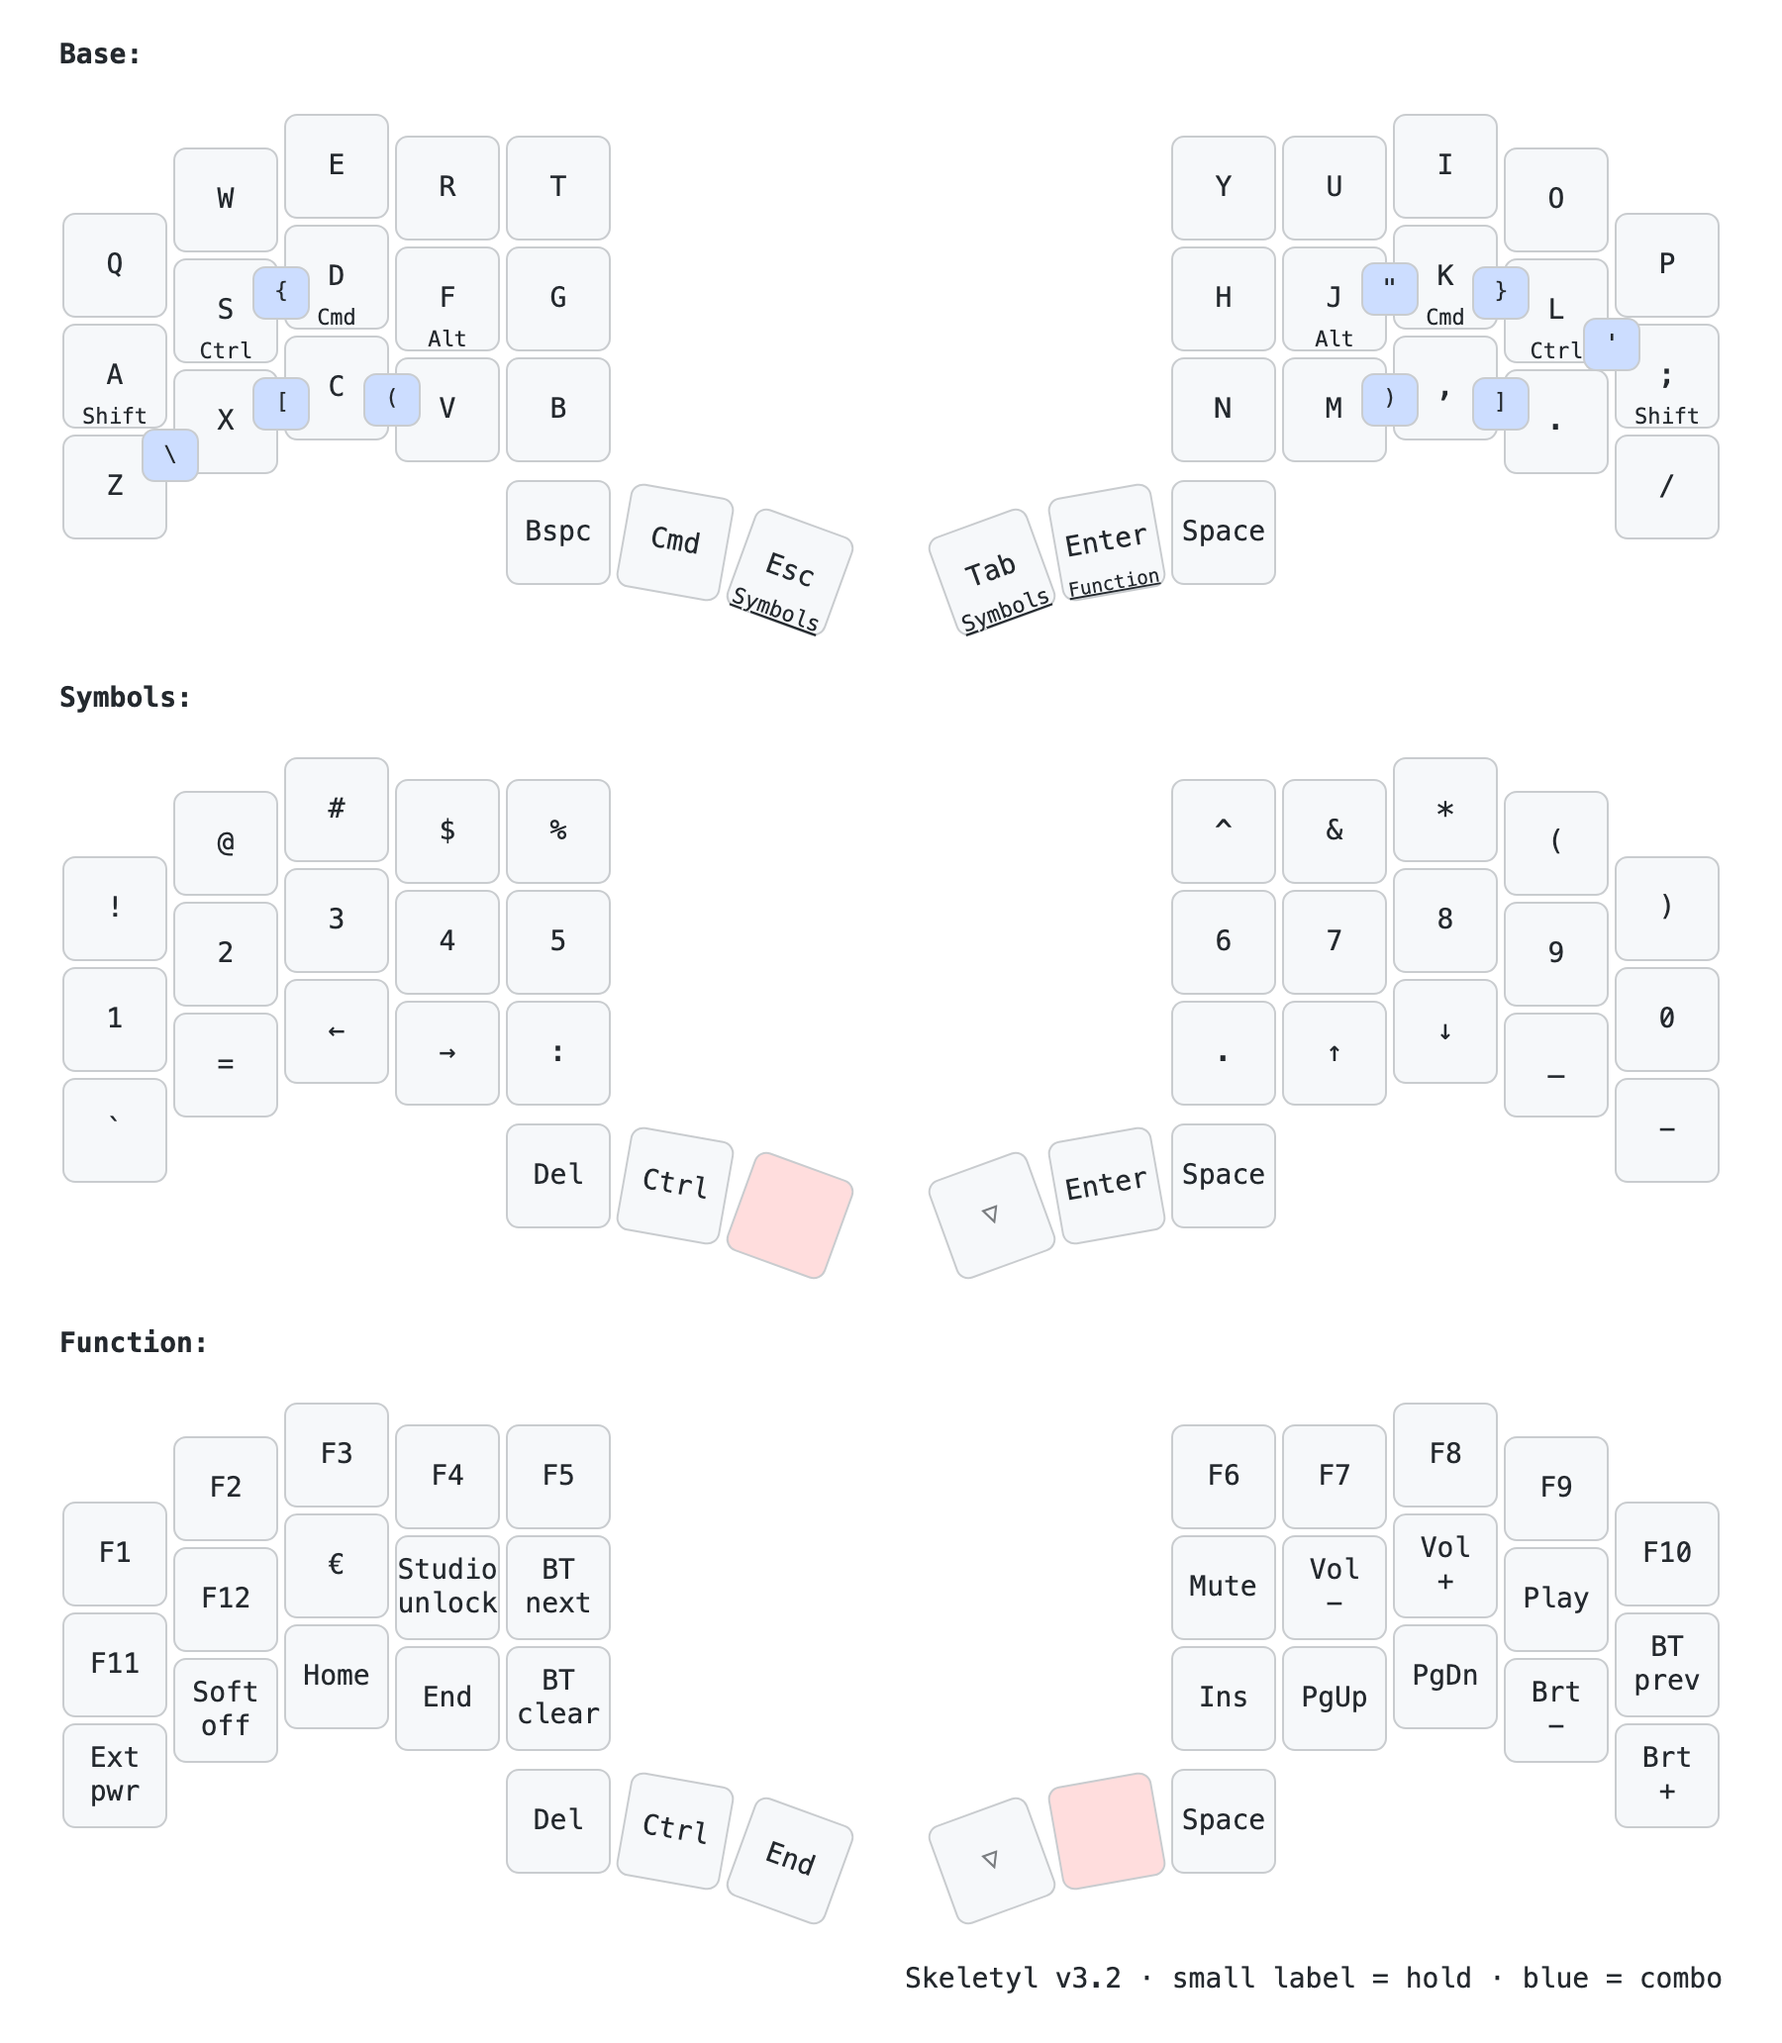
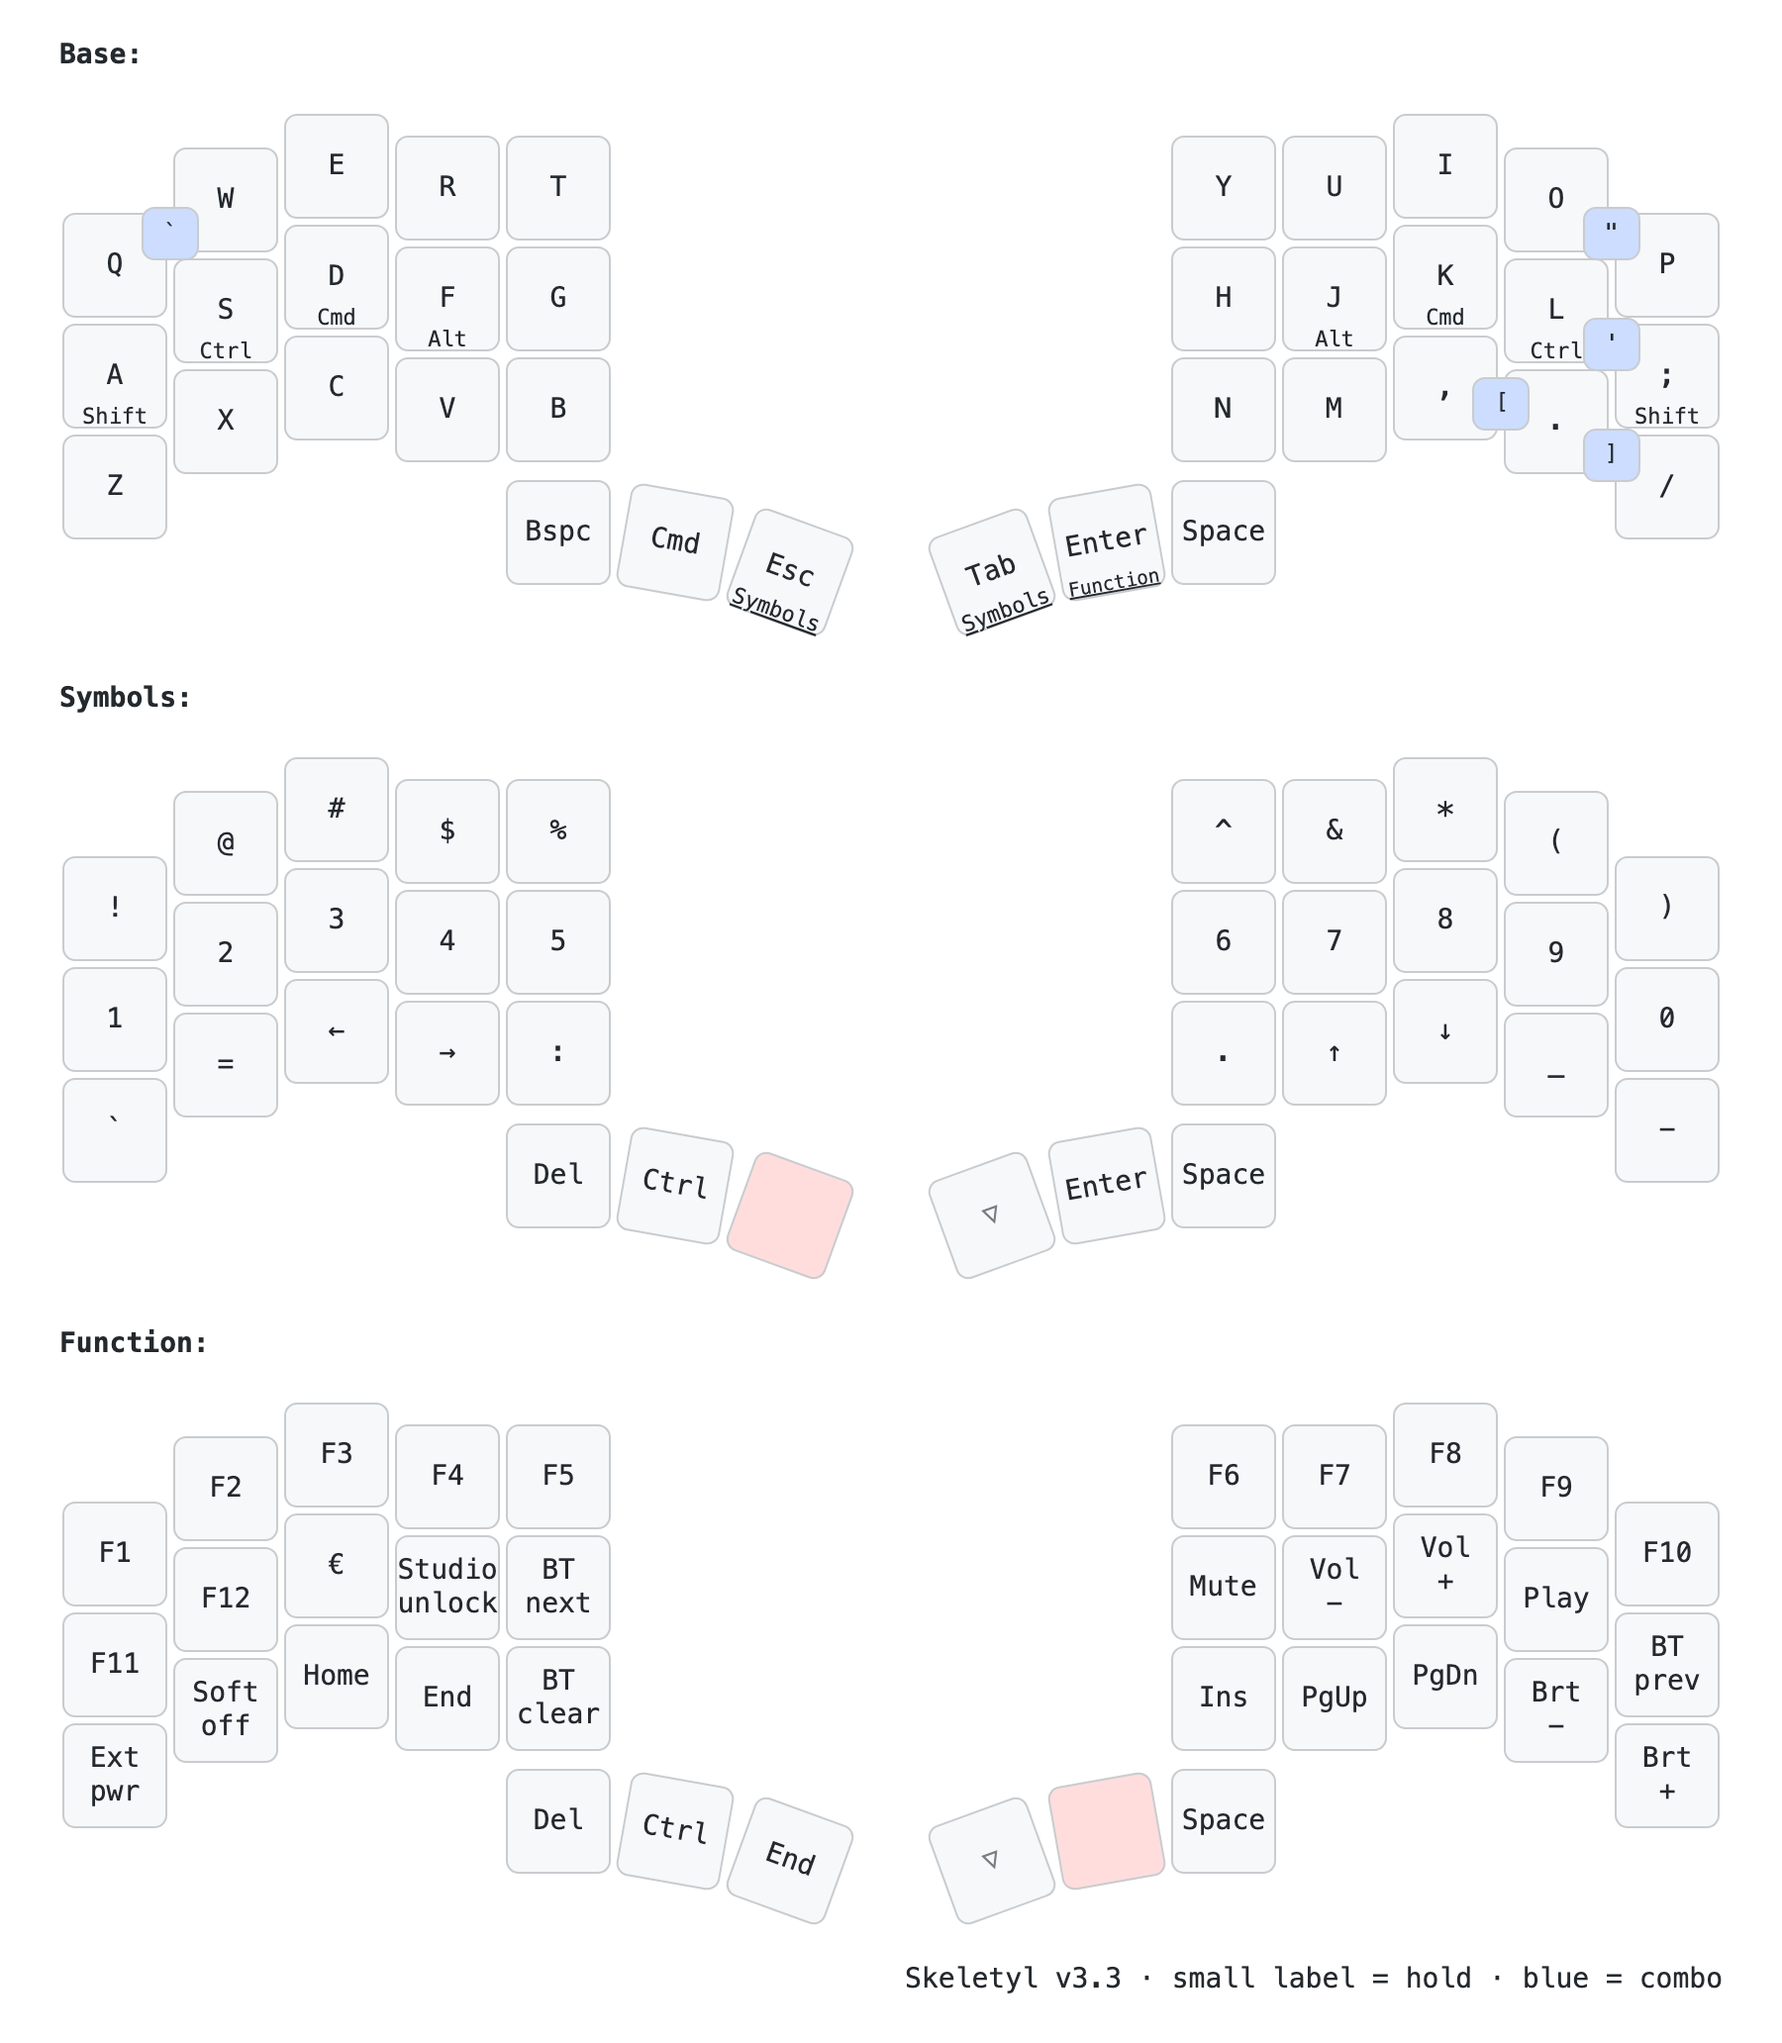
Skeletyl v3.3: replace combos with L+; ' O+P " Q+W ` ,+. [ .+/ ]

diff --git a/README.md b/README.md
@@ -28,14 +28,16 @@ mirrored two-finger combos.
 
 Combos (same row, adjacent fingers, Base layer only, 40 ms):
 
-| Left hand | Right hand |
-|---|---|
-| `S+D` → `{` | `J+K` → `"` · `K+L` → `}` · `L+;` → `'` |
-| `Z+X` → `\` · `X+C` → `[` · `C+V` → `(` | `M+,` → `)` · `,+.` → `]` |
+| Combo | Output | With Shift (hold A) |
+|---|---|---|
+| `L+;` | `'` | `"` |
+| `O+P` | `"` | `"` |
+| `Q+W` | `` ` `` | `~` |
+| `,+.` | `[` | `{` |
+| `.+/` | `]` | `}` |
 
-`{` and `}` have a 150 ms prior-idle guard because `sd`/`kl` occur in words.
-`S+D`, `J+K`, `K+L` double as Ctrl+Cmd / Alt+Cmd chords under the home-row
-mods: for Cmd+Opt shortcuts use the thumb Cmd with F or J instead.
+`O+P` and `.+/` have a 150 ms prior-idle guard because `op` (stop, open) and
+`./` (relative paths) are typed mid-word; they only fire after a short pause.
 
 `€` is Function + D and assumes the macOS US layout (Option+Shift+2).
 
